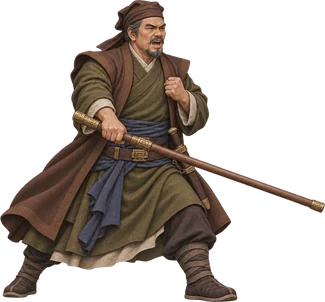
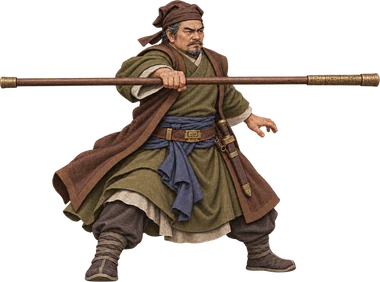
fix: ghép tranh đánh thường và tuyệt chiêu Trần Lãm theo POSE ID v3
Prompt RB-008 v3 (vừa chốt trên develop) định nghĩa đánh thường là quét gậy ngang ngực,
tuyệt chiêu là bước tới đâm gậy xuống trước với tay trái nắm trước ngực, nên đổi chỗ
hai tranh pose-attack và pose-ultimate cho đúng.

Claude-Session: https://claude.ai/code/session_013ZWRLjVBHAqXYTQSkSZwJr

diff --git a/src/app/game/stage/rigs.ts b/src/app/game/stage/rigs.ts
@@ -738,15 +738,15 @@ const TRAN_LAM: WarriorRig = {
   },
   blade: [{ x: 182, y: 1490 }, { x: 188, y: 360 }],
   fxColor: 0x7fcaff,
-  // Hạ gậy quét ngang, tay kia nắm trước ngực (đánh thường); giơ gậy chéo sau đầu, xòe bàn tay về trước (ra chiêu);
-  // thế tấn rộng, gậy ngang ngực, tay kia mở chặn (tuyệt chiêu). Cỡ so theo bề ngang khăn đầu.
+  // Ghép theo POSE ID của prompt RB-008 v3: thế tấn rộng quét gậy ngang ngực (đánh thường); giơ gậy chéo, tay kia chỉ
+  // về trước (ra chiêu); bước tới đâm gậy xuống trước, tay kia nắm trước ngực (tuyệt chiêu). Cỡ so theo bề ngang khăn đầu.
   poses: {
-    attack: { name: "pose-attack", texScale: 0.3, origin: { x: 172, y: 11 },
-      anchor: { x: 570, y: 1003 }, scale: 1.2, burst: { x: 1245, y: 700 } },
+    attack: { name: "pose-attack", texScale: 0.3, origin: { x: 135, y: 44 },
+      anchor: { x: 765, y: 965 }, scale: 1.2, burst: { x: 1395, y: 312 } },
     cast: { name: "pose-cast", texScale: 0.3, origin: { x: 38, y: 18 },
       anchor: { x: 510, y: 1500 }, scale: 1.03, burst: { x: 955, y: 455 } },
-    ultimate: { name: "pose-ultimate", texScale: 0.3, origin: { x: 135, y: 44 },
-      anchor: { x: 765, y: 965 }, scale: 1.2, burst: { x: 1395, y: 312 } },
+    ultimate: { name: "pose-ultimate", texScale: 0.3, origin: { x: 172, y: 11 },
+      anchor: { x: 570, y: 1003 }, scale: 1.2, burst: { x: 1245, y: 700 } },
   },
   // Ngồi bệt ngả sang bên, một tay chống đất, gậy rơi bên cạnh.
   down: { name: "pose-down", texScale: 0.3, origin: { x: 36, y: 36 },
